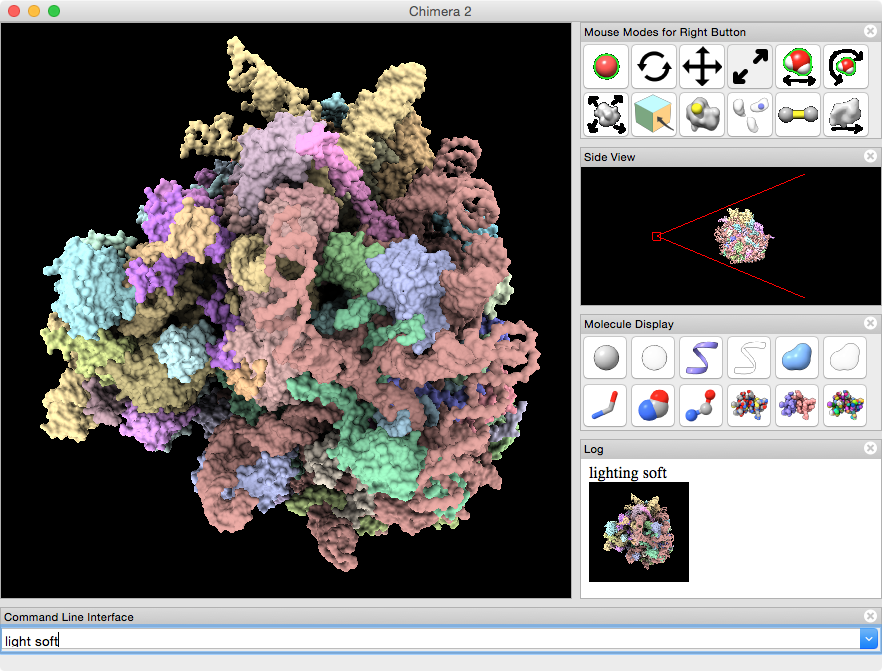
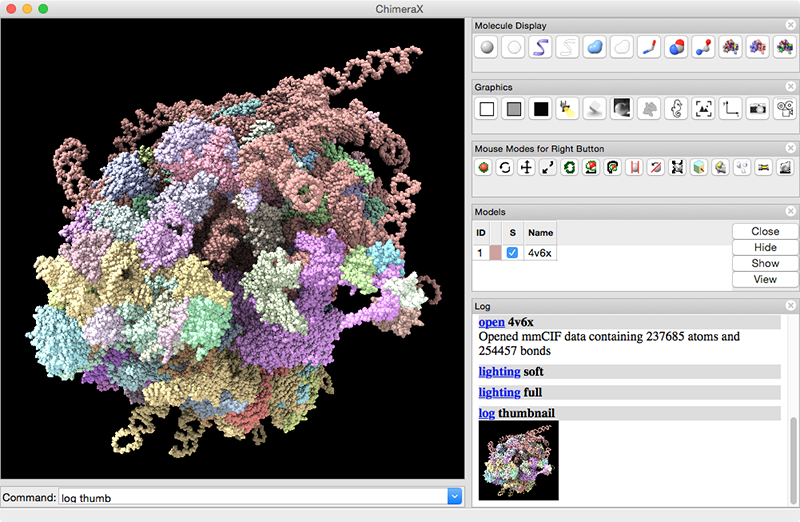
"style" can set number of dashes per pbond (same for all in a group); updated screenshot on download and quickstart pages, dialog title"ChimeraX"

diff --git a/docs/user/commands/style.html b/docs/user/commands/style.html
@@ -34,8 +34,13 @@ The <b>style</b> command sets the display style of the
 <li><b>ball</b> - ball-and-stick with scaled-down van der Waals (VDW) radii
 <li><b>sphere</b> - space-filling with full VDW radii
 </ul>
-In addition, it can set the number of dashes in
-<a href="atomspec.html">specified</a> pseudobonds.
+In addition, <b>style</b> can set the number of <b>dashes</b> per
+<a href="../pseudobonds.html">pseudobond</a>. Bonds and pseudobonds
+are considered as specified when both flanking atoms are specified,
+and all of the pseudobonds in a <a href="../pseudobonds.html">group</a>
+will be affected in parallel. Only whole numbers are accepted, with 0
+indicating solid sticks. Currently, odd numbers are rounded down 
+to give an even number of dashes.
 </p><p>
 As per the usual convention, a blank specification means &ldquo;all.&rdquo;
 See also: <a href="show.html"><b>show</b></a>

diff --git a/docs/user/pseudobonds.html b/docs/user/pseudobonds.html
@@ -1,6 +1,6 @@
 <!--
 === UCSF ChimeraX Copyright ===
-Copyright (c) 2015 Regents of the University of California.
+Copyright (c) 2016 Regents of the University of California.
 All rights reserved.  This software provided pursuant to a
 license agreement containing restrictions on its disclosure,
 duplication and use.  This notice must be embedded in or
@@ -24,11 +24,12 @@ class="clRight" alt="ChimeraX logo"/></a>
 A <b><i>pseudobond</i></b></a> is drawn to
 signify a connection other than a covalent bond, such as a 
 metal coordination bond or a missing peptide segment.
+</p><p>
 A <b><i>pseudobond group</i></b> is a named set 
 of pseudobonds that can be treated collectively.
 </p>
 
 <hr>
 <address>UCSF Resource for Biocomputing, Visualization, and Informatics /
-October 2015</address>
+February 2016</address>
 </body></html>

diff --git a/docs/download/chimerax.html b/docs/download/chimerax.html
@@ -2,7 +2,7 @@
 <title>UCSF ChimeraX Prerelease</title>
 <body>
 
-<img src="../quickstart/images/chimerax.png" align=right width=500px
+<img src="../quickstart/images/chimerax.png" align=right width=600px
 style="margin:4px 4px 4px 12px; border:1px solid black">
 
 <h1>UCSF ChimeraX Prerelease</h1>

diff --git a/docs/quickstart/index.html b/docs/quickstart/index.html
@@ -2,7 +2,8 @@
 <title>ChimeraX Quick Start Guide</title>
 <body>
 
-<img src="images/chimerax.png" width=500 align=right>
+<img src="images/chimerax.png" align=right width=600px
+style="margin:4px 4px 4px 12px; border:1px solid black">
 
 <h1>ChimeraX Quick Start Guide</h1>
 
